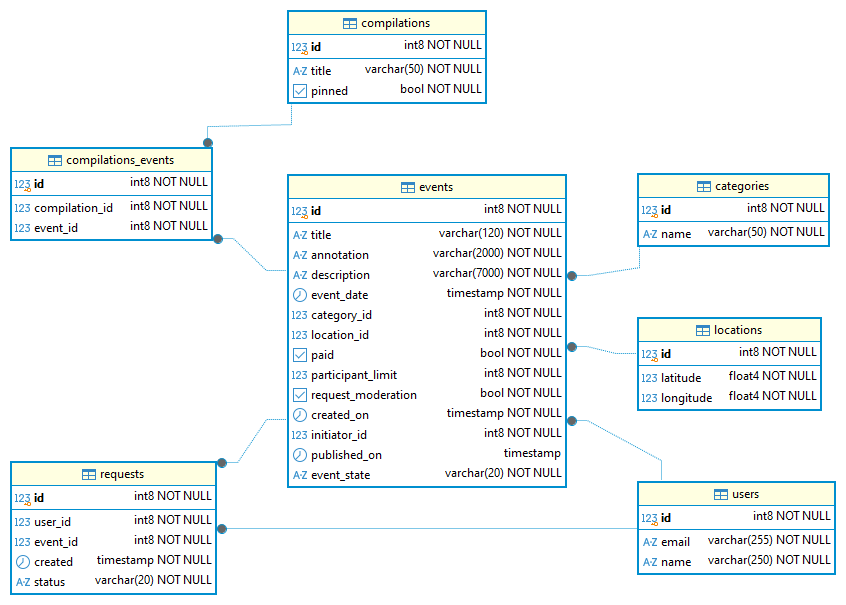
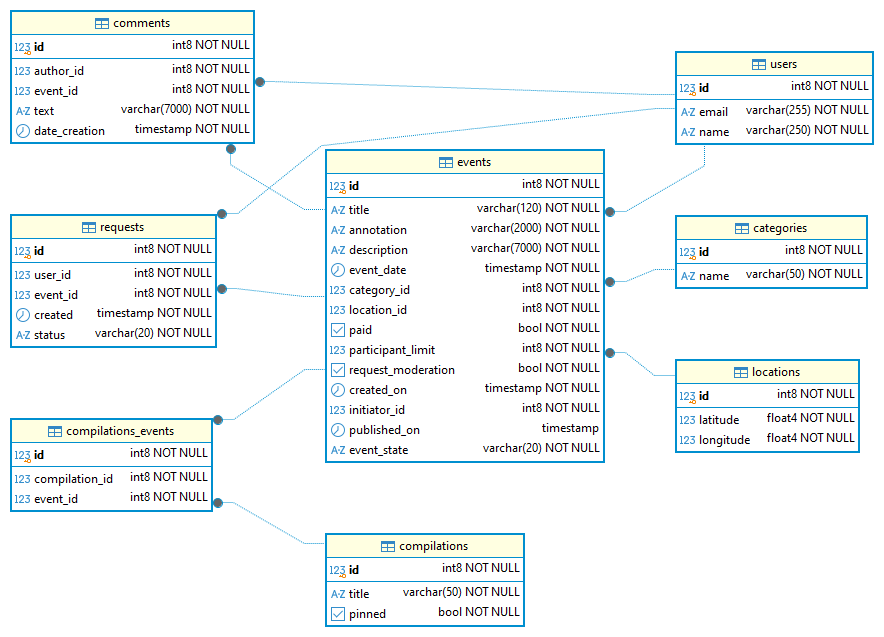
Дипломный проект. Этап 3. Доработка фичи - комментарии. ReadMe + комментарии

diff --git a/main-service/src/main/java/ru/practicum/service/CommentServiceImpl.java b/main-service/src/main/java/ru/practicum/service/CommentServiceImpl.java
@@ -39,6 +39,7 @@ public class CommentServiceImpl implements CommentService {
         Event event = eventRepository.findEventByIdAndState(eventId, EventState.PUBLISHED)
                 .orElseThrow(() -> new NotFoundException("Event with id=" + eventId + " was not found",
                         "The required object was not found."));
+        //комментарий может оставить любой - участие в событии не проверяем
         ParamCommentSave paramCommentSave = new ParamCommentSave(user, event);
         Comment comment = commentRepository.save(CommentMapper.mapToCommentForCreate(newCommentDto, paramCommentSave));
         return CommentMapper.mapToCommentFullDto(comment);

diff --git a/README.md b/README.md
@@ -18,14 +18,16 @@ API основного сервиса имеют три части:
     4. каждое событие относится к какой-то из закреплённых в приложении категорий;
     5. настроена возможность получения всех имеющихся категорий и подборок событий 
        (такие подборки будут составлять администраторы ресурса);
-    6. каждый публичный запрос для получения списка событий или полной информации о мероприятии фиксируется сервисом статистики.
+    6. каждый публичный запрос для получения списка событий или полной информации о мероприятии фиксируется сервисом статистики;
+    7. просмотр комментариев к каждому событию.
 
 ### API для авторизованных пользователей
 Закрытая часть API реализует возможности зарегистрированных пользователей продукта:
 
     1. авторизованные пользователи имеют возможность добавлять в приложение новые мероприятия, редактировать их и просматривать после добавления;
     2. настроена подача заявок на участие в интересующих мероприятиях;
-    3. создатель мероприятия имеет возможность подтверждать заявки, которые отправили другие пользователи сервиса.
+    3. создатель мероприятия имеет возможность подтверждать заявки, которые отправили другие пользователи сервиса;
+    4. настроено добавление комментариев к событиям.
 
 ### API для администратора
 Административная часть API предоставляет возможности настройки и поддержки работы сервиса:
@@ -33,7 +35,8 @@ API основного сервиса имеют три части:
     1. настроено добавление, изменение и удаление категорий для событий;
     2. есть возможность добавлять, удалять и закреплять на главной странице подборки мероприятий;
     3. есть модерацию событий, размещённых пользователями, — публикация или отклонение;
-    4. настроено управление пользователями — добавление, активация, просмотр и удаление.
+    4. настроено управление пользователями — добавление, активация, просмотр и удаление;
+    5. добавлена возможность удаления комментариев.
 
 ### ER-диаграмма базы данных основного сервиса
 ![Схема базы данных main-db](/main-service/src/main/resources/main-db.png)
